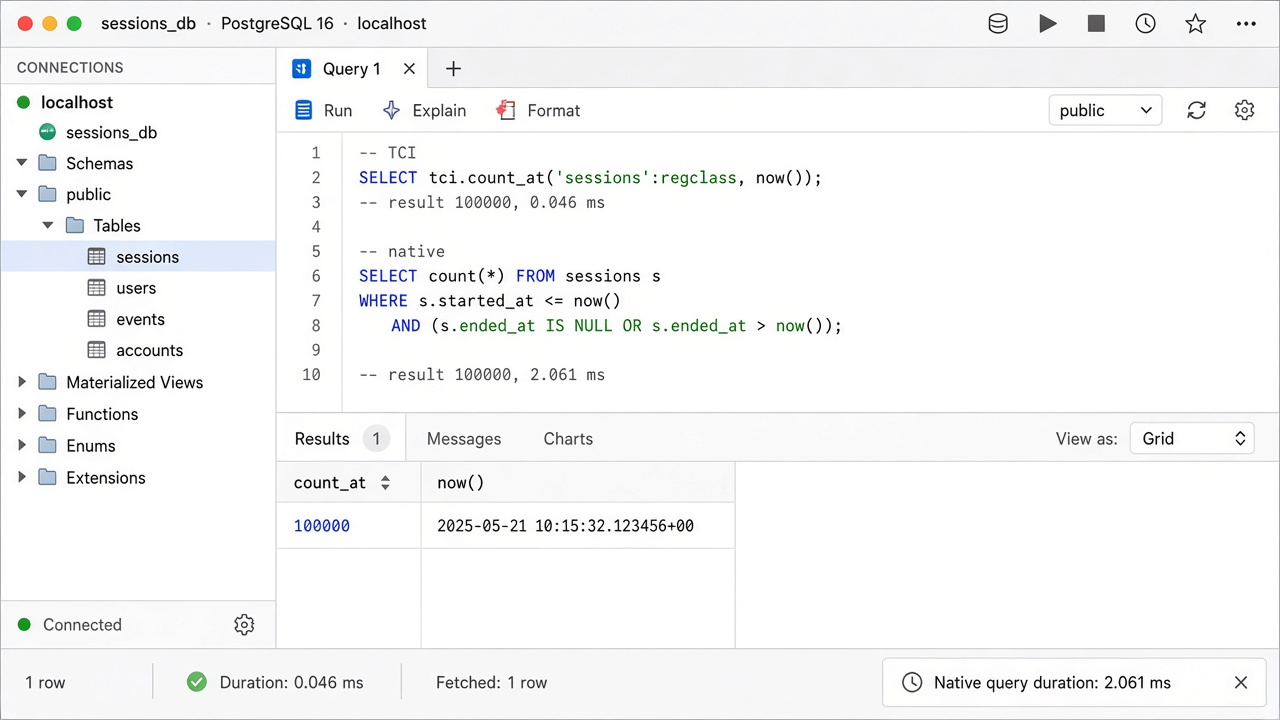
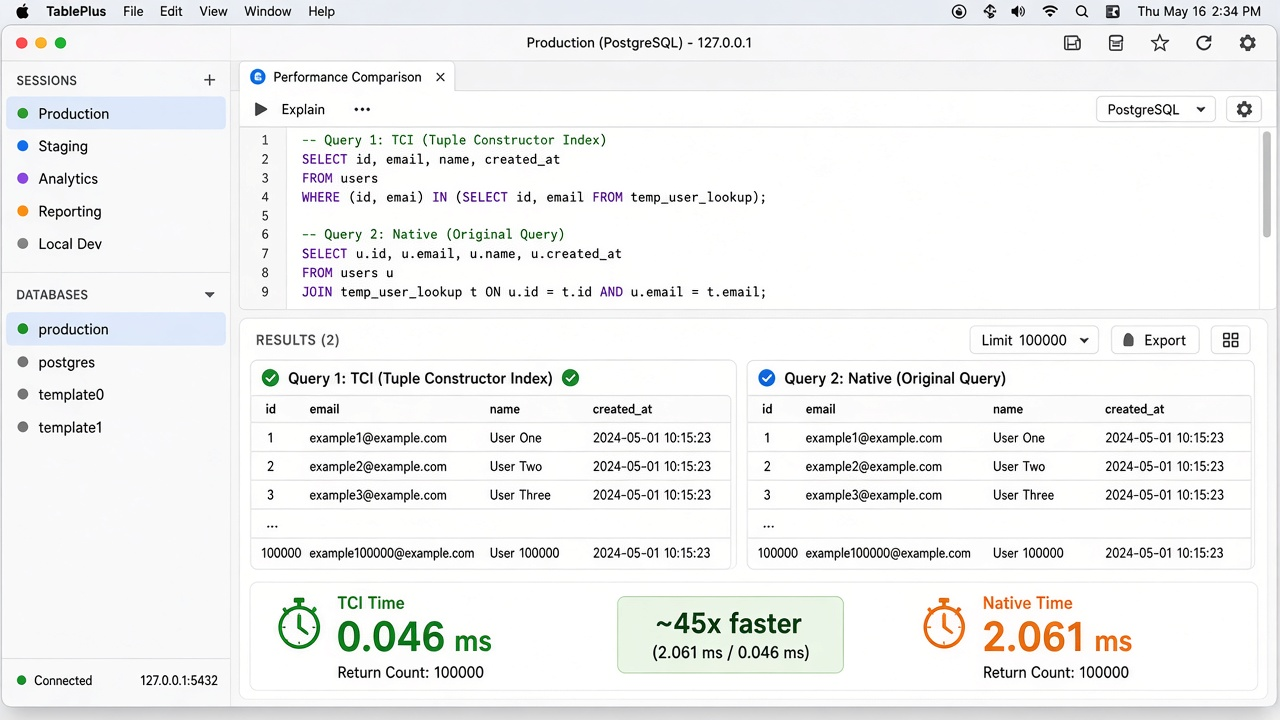
Call out latency gaps in ms more loudly in the README.
Bold the 0.046 ms vs 2.061 ms comparison and keep the TablePlus timing shot.

diff --git a/README.md b/README.md
@@ -87,12 +87,26 @@ Cron sample: [`examples/maintain_cron.sh`](examples/maintain_cron.sh).
 
 ## Performance
 
-Warm COUNT on about 100k intervals. Same answer (100000). TCI about 0.046 ms,
-native about 2.061 ms on that cell:
+Warm COUNT on ~100k intervals. Same answer (`100000`), very different latency:
 
-![TablePlus microbench timings](docs/images/demo-latency.jpg)
+| | result | time |
+|--|--:|--:|
+| **`tci.count_at`** | 100000 | **0.046 ms** |
+| native `COUNT(*)` | 100000 | **2.061 ms** |
 
-More numbers: [`docs/benchmarks.md`](docs/benchmarks.md).
+**~45x faster** on that cell (**0.046 ms** vs **2.061 ms**).
+
+![TablePlus: 0.046 ms vs 2.061 ms](docs/images/demo-latency.jpg)
+
+Other cells (also ms):
+
+| cell | TCI | native |
+|--|--:|--:|
+| ~100k warm COUNT | **~0.046 ms** | **~2.06 ms** |
+| 1M, 50 readers, read-only | **~31 ms** | **~580 ms** |
+| 1M, 50 readers + ~5k writes/s | **~338 ms** | **~926 ms** |
+
+Details and how to reproduce: [`docs/benchmarks.md`](docs/benchmarks.md).
 
 ## Docs
 
